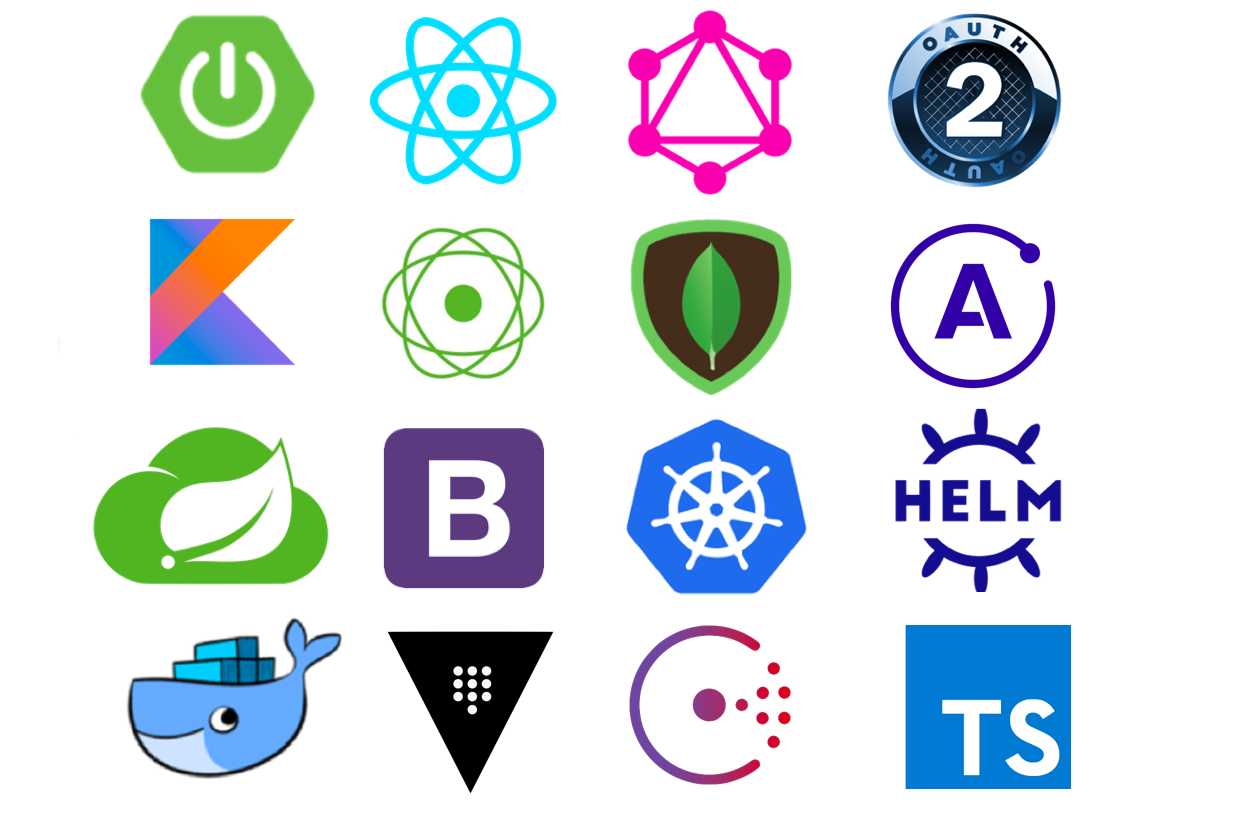
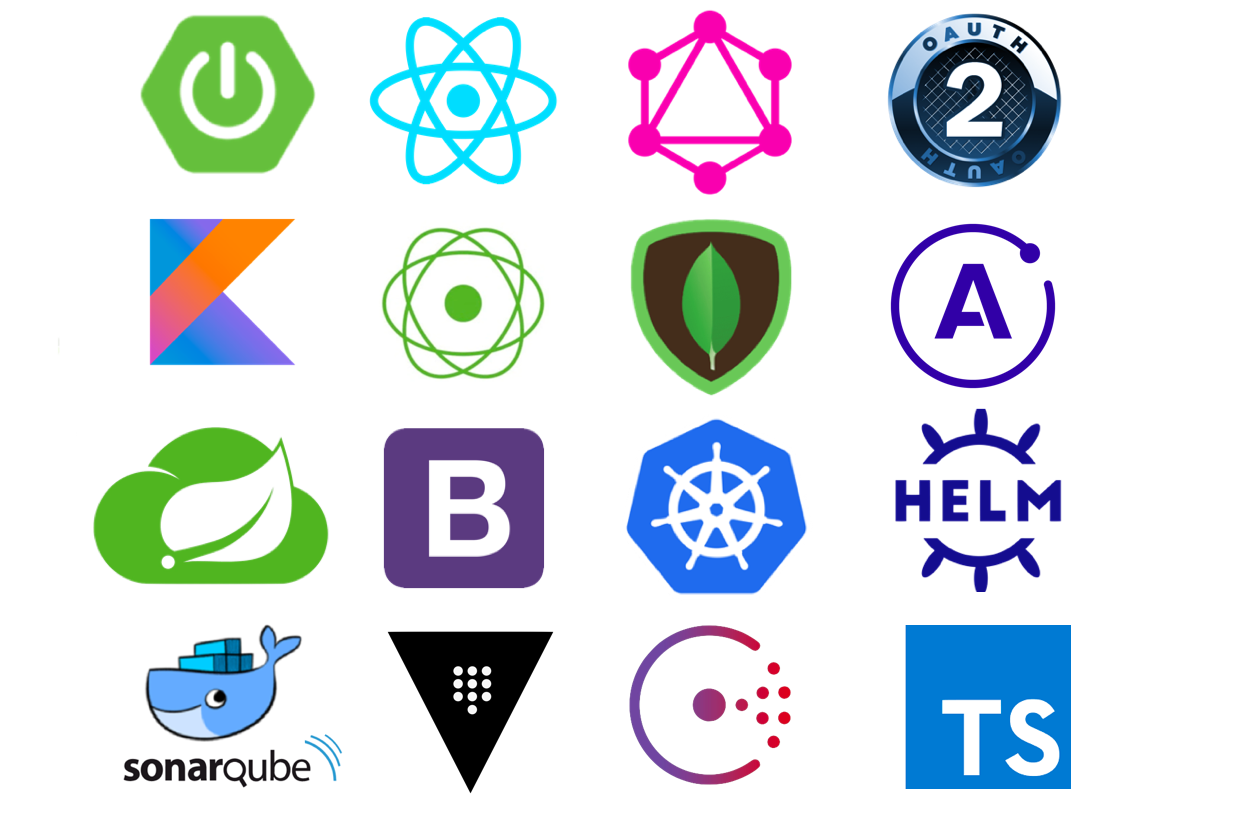
add Sonarqube desc

Changed region(s): [[0.0929, 0.7678, 0.2788, 0.9828]]

diff --git a/README.md b/README.md
@@ -104,6 +104,34 @@ You can run the react app(accessible on http://127.0.0.1:3000) by typing the fol
 npm start
 ```
 
+# Sonar
+
+## Code Quality For Backend
+
+You can test code quality locally via sonarqube by typing the following command
+
+```sh
+mvn -Psonar compile initialize sonar:sonar
+```
+
+## Code Quality For Apollo Gateway
+
+You can test code quality locally via sonarqube by typing the following command
+
+```sh
+npm run sonar
+```
+
+## Code Quality For Frontend
+
+You can test code quality locally via sonarqube by typing the following command
+
+```sh
+npm run sonar
+```
+
+Once the analysis completes, it will be available on the Sonar dashboard, which by default is available on http://localhost:9000.
+
 # Docker
 
 You can also fully dockerize your application and all the services that it depends on. To achieve this, first build a docker image of your app.
@@ -189,6 +217,7 @@ https://auth.susimsek.github.io
 * Docker Compose
 * Kubernetes
 * Helm
+* Sonarqube
 * Vault
 * Consul
 * Nginx
